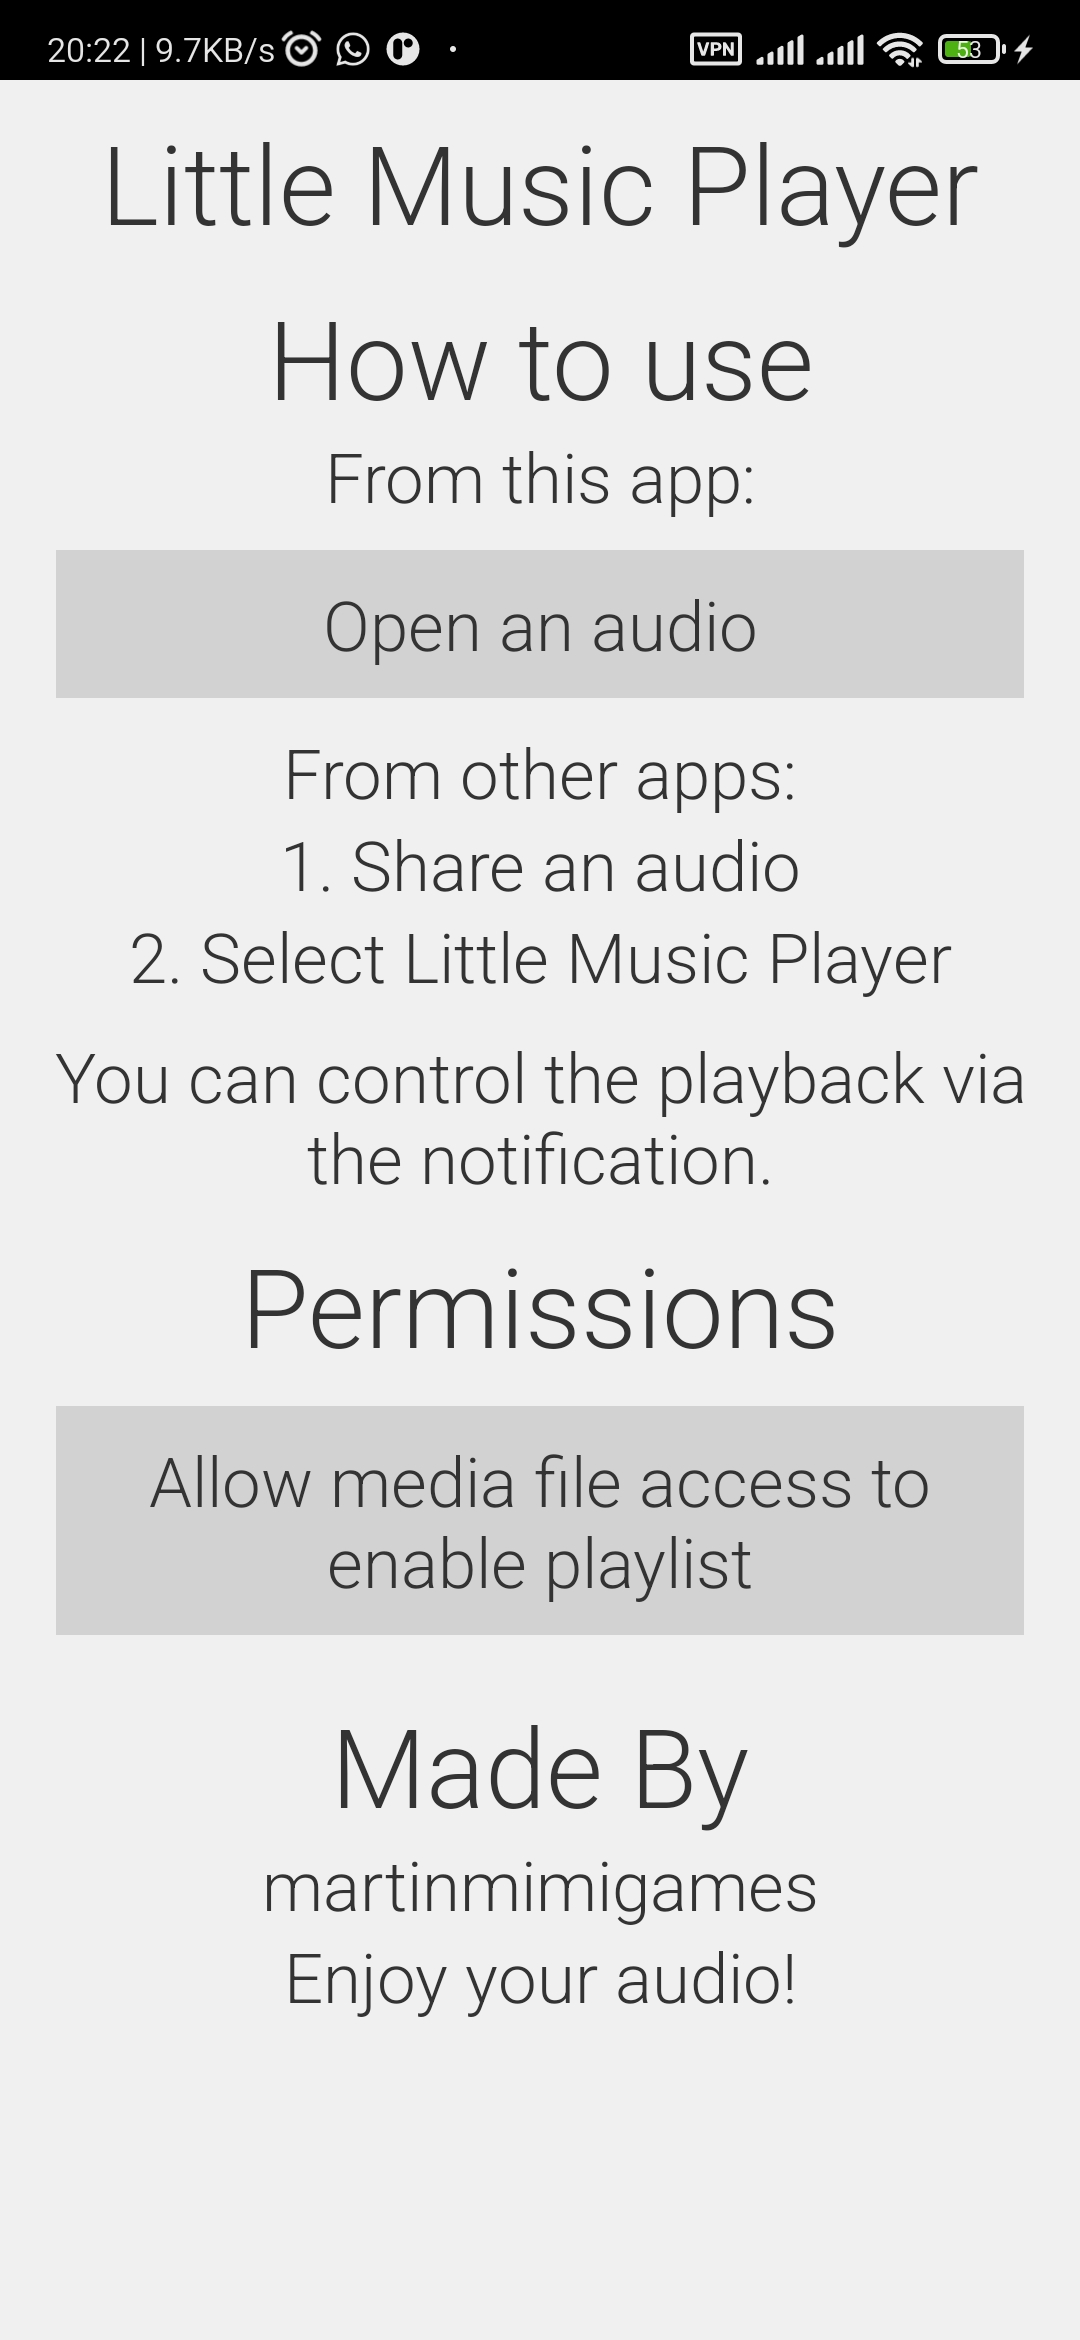
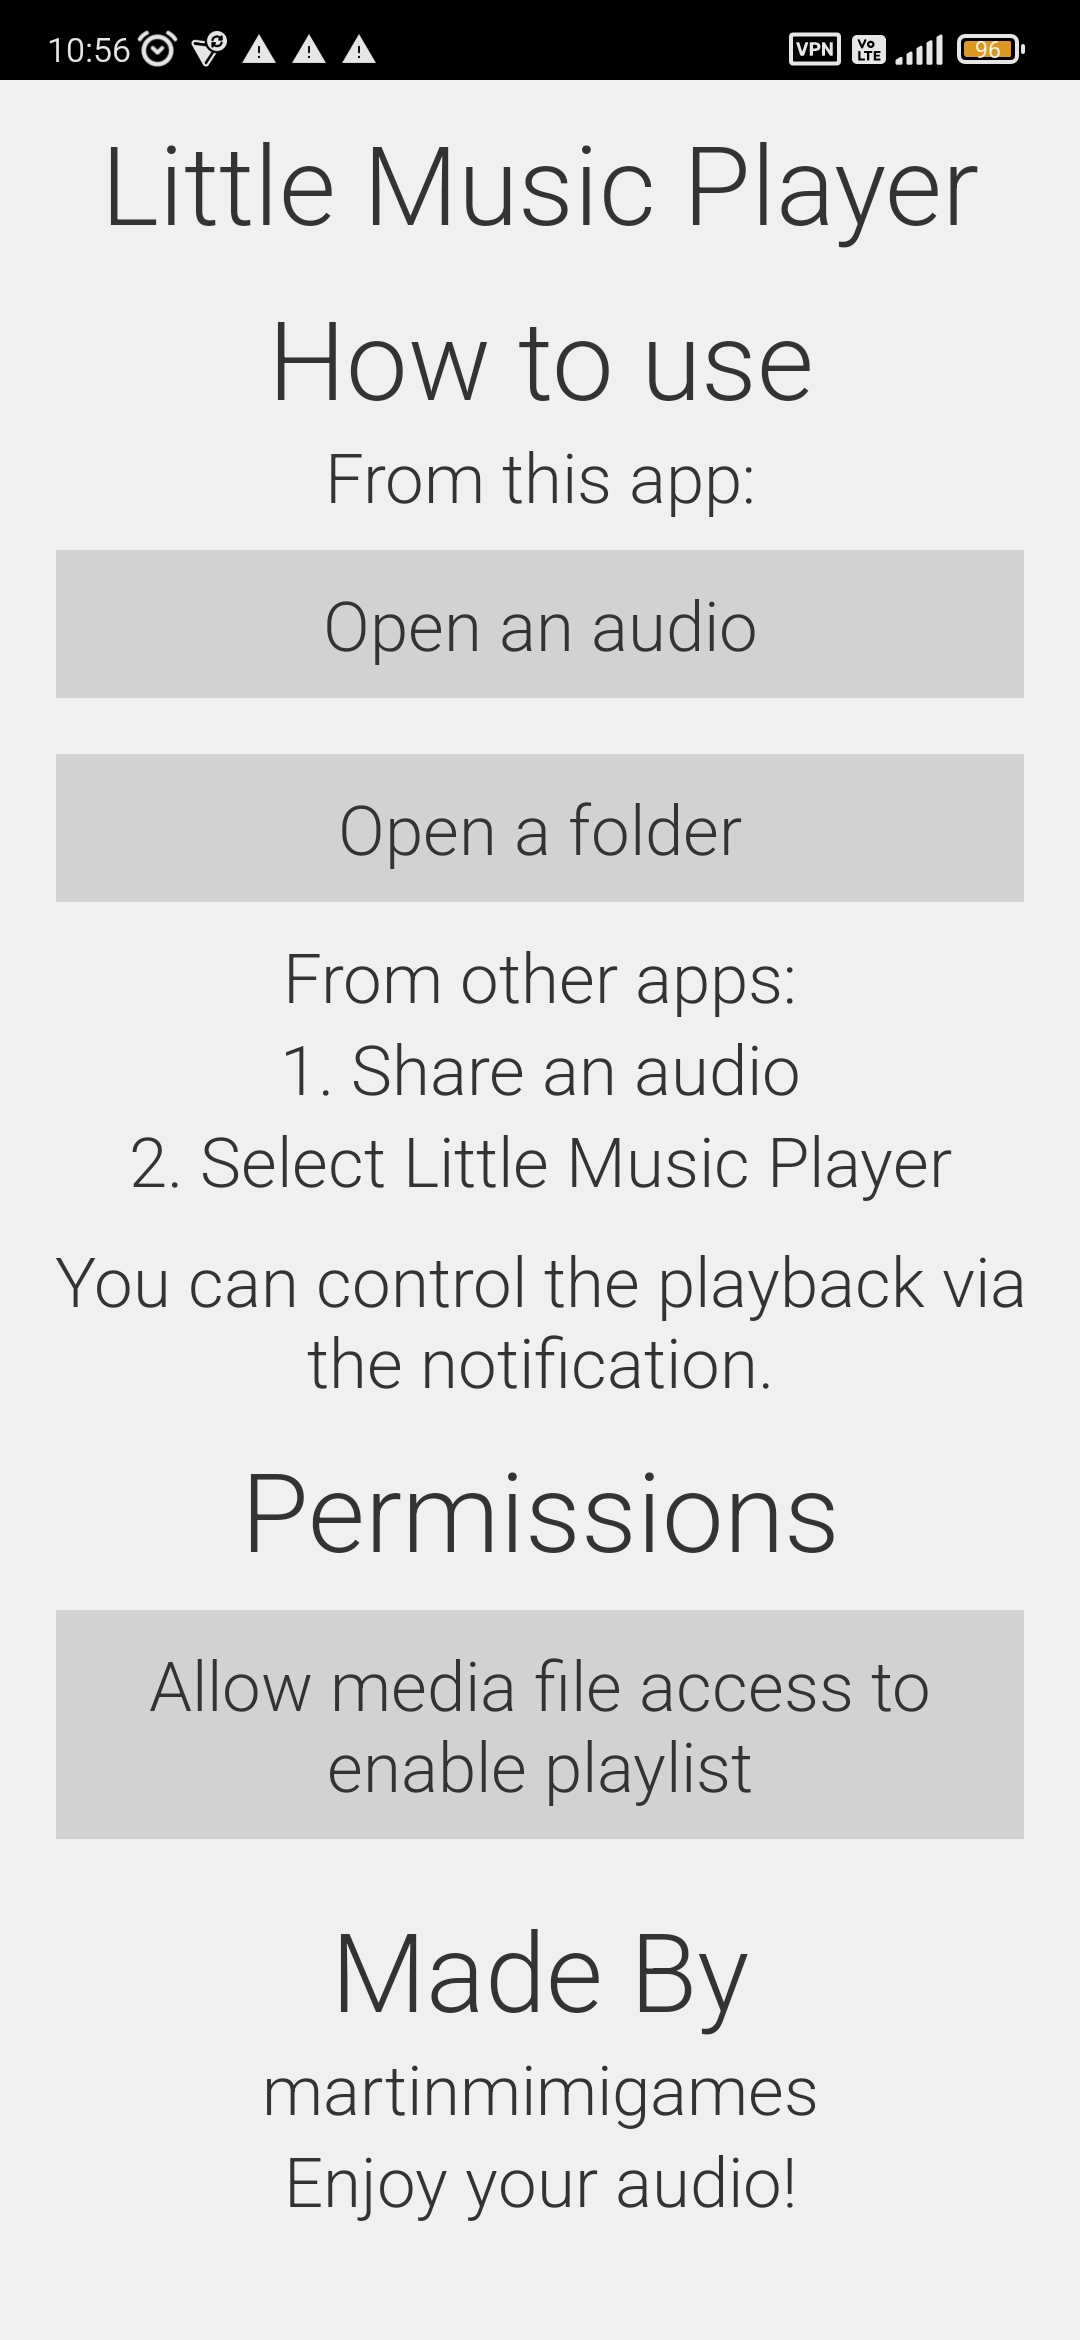
new release (v2.13)

diff --git a/README.md b/README.md
@@ -31,6 +31,10 @@ Location of webpage:
 
 You can find most information about *Little Music Player* just below.
 
+## screenshot
+
+![example screenshot](/docs/images/2.jpg)
+
 ## Notices
 
 The app will not be able to function properly without notification permissions being granted.
@@ -45,9 +49,11 @@ permission if the permission is not granted.
 
 ## Playlist support
 
-We currently partially support ```m3u```/```m3u8```.
+- Folder-based playlist on Android 5.0+
+- Temporary playlist via multi-share function
+- Partial ```m3u```/```m3u8``` support
 
-Features supported:
+```m3u```/```m3u8``` features supported:
 
 - Audio stream url (```http```/```https```)
 - Absolute audio path (e.g. ```/storage/emulated/0/Music/Example.mp3```)
@@ -132,6 +138,11 @@ You can submit issues the following ways:
 - via email: <martinmimigames@gmail.com>
 
 ## Latest Versions
+
+- v2.13
+  - Now support folder-based playlist for Android 5.0+
+  - Now support temporary playlist via multi-share
+
 - v2.12
   - Fixed permission missing on newer android
   - Now runs on Android 14 (emulator)
@@ -177,7 +188,7 @@ Official Website at [https://martinmimigames.github.io](https://martinmimigames.
 
 ### Last update of README
 
-Date : 02-07-2023 dd-mm-yyyy
+Date : 20-07-2023 dd-mm-yyyy
 
 ### Important
 
